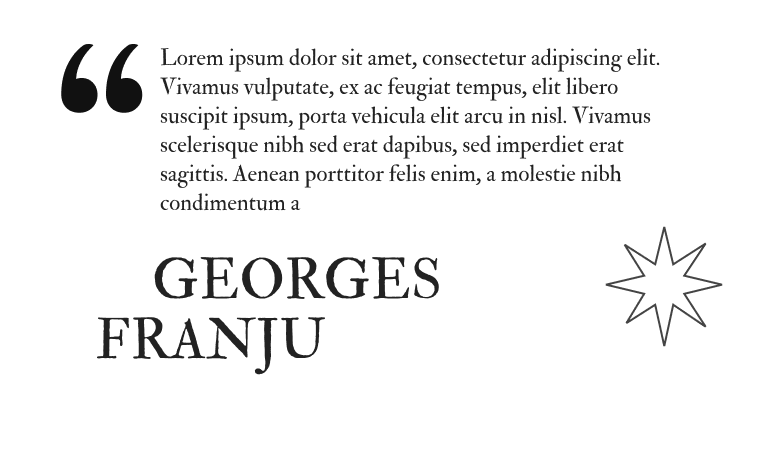
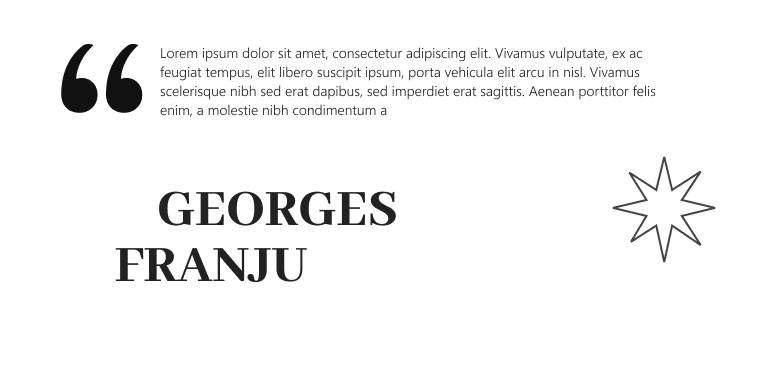
feat: auteur's showcase imagens

Changed region(s): [[0.0602, 0.0887, 0.873, 0.4731], [0.1204, 0.5027, 0.572, 0.828], [0.7827, 0.414, 0.9634, 0.7688]]

diff --git a/index.html b/index.html
@@ -19,9 +19,17 @@
         }
 
         section {
-            height: 100vh;
+            height: 110vh;
             background-color: #fff;
             padding-top: 70px;
+        }
+
+        section .produtos {
+            margin-top: 7em;
+        }
+
+        section .cadastro {
+            margin-top: 10em !important;
         }
 
         header {
@@ -33,7 +41,7 @@
         }
 
         .main-panel {
-            margin-top: 300px;
+            margin-top: 150px;
             display: flex;
             flex-direction: column;
             align-items: center;
@@ -73,7 +81,7 @@
         }
 
         .read-more h3 {
-            font-size: 50px;
+            font-size: 35px;
             text-transform: uppercase;
             font-weight: 400;
         }
@@ -99,8 +107,8 @@
         }
 
         .circle {
-            width: 50px;
-            height: 50px;
+            width: 40px;
+            height: 40px;
             border-radius: 100%;
             border: 2px solid #444;
             background-color: transparent;
@@ -115,14 +123,16 @@
         .circle a {
             text-decoration: none;
             color: #222;
+            font-size: 12px;
         }
 
         .auteur-quote img {
-            height: 25em;
+            height: 20em;
         }
 
-        .auteur-photos {
-            height: 100px;
+        .auteur-photos img {
+            height: 25em;
+            padding: 0 50px 50px;
         }
 
     </style>
@@ -153,6 +163,9 @@
                         <li class="nav-item">
                             <a class="nav-link" href="#contato">Contato</a>
                         </li>
+                        <li class="nav-item">
+                            <a class="nav-link" href="#cadastro">Sign up</a>
+                        </li>
                     </ul>
                 </nav>
             </div>
@@ -165,7 +178,7 @@
             <div class="container">
                 <div class="row">
                     <div class="col main-panel">
-                        <h2 class="m-2 display-4">
+                        <h2 class="m-2 display-5">
                             Track films you’ve watched.
                             Save those you want to see.
                             Tell your friends what’s good. 
@@ -196,10 +209,10 @@
                             <!-- <header class="card-header">
                                 Drama
                             </header> -->
-                            <img src="https://via.placeholder.com/180x180" alt="">
+                            <img src="https://via.placeholder.com/100x100" alt="">
                             <div class="card-body">
                                 <h4 class="card-title h5">
-                                    Abbias Kiarostami's Wisdom
+                                    Abbias Kiarostami's Dispute
                                 </h4>
                                 <p class="card-text">
                                     When the heart tells you to go, say it back "go fuck yourself".
@@ -216,13 +229,13 @@
                             <!-- <header class="card-header">
                                 Drama
                             </header> -->
-                            <img src="https://via.placeholder.com/180x180" alt="">
+                            <img src="https://via.placeholder.com/100x100" alt="">
                             <div class="card-body">
                                 <h4 class="card-title h5">
                                     Flesh Carnival
                                 </h4>
                                 <p class="card-text">
-                                    Do people tipically enjoy violence? How gore made its way into eleveted horror.
+                                    Do people tipically enjoy violence? How gore made its way into elevated horror.
                                 </p>
                                 <a href="#" class="btn btn-dark">ler mais</a>
                             </div>
@@ -236,13 +249,13 @@
                             <!-- <header class="card-header">
                                 Drama
                             </header> -->
-                            <img src="https://via.placeholder.com/180x180" alt="">
+                            <img src="https://via.placeholder.com/100x100" alt="">
                             <div class="card-body">
                                 <h4 class="card-title h5">
                                     How to Deal with Exploding Head Syndrome
                                 </h4>
                                 <p class="card-text">
-                                    Apichatpong talks about his love life and emotional indisposition 
+                                    Lucrecia Martel talks about her love life and emotional indisposition 
                                 </p>
                                 <a href="#" class="btn btn-dark">ler mais</a>
                             </div>
@@ -259,7 +272,7 @@
         <section id="produtos">
             <div class="container">
                 <div class="row">
-                    <div class="col-lg-12 col-sm-12 mb-3">
+                    <div class="col-lg-12 col-sm-12 mb-3 produtos">
                         <h2>
                             Just Reviewed
                         </h2>
@@ -315,8 +328,7 @@
                         </h3>
                         <p>
                             Lorem ipsum, dolor sit amet consectetur adipisicing elit. Totam animi quos officiis accusantium, aliquid exercitationem in pariatur eaque fugit adipisci repellat dicta quasi architecto illum? Nisi doloribus quis voluptatibus exercitationem?
-                            Lorem ipsum dolor, sit amet consectetur adipisicing elit. Itaque aut ea sed odio minus consequatur placeat aliquid, quidem hic qui ex veritatis, error dicta consequuntur. Cum, ea! Deserunt, odit obcaecati.
-                            Lorem ipsum, dolor sit amet consectetur adipisicing elit. Ad deserunt nemo distinctio dolores possimus quaerat voluptas libero?
+                            Lorem ipsum dolor, sit amet consectetur adipisicing elit. Itaque aut ea sed odio.
                         </p>
                     </div>
                     <img class="banner-read-more" src="./img/banner.jpg" alt="">
@@ -331,16 +343,17 @@
                         <img src="./img/quote.png" alt="">
                     </div>
                     <div class="col-lg-6 auteur-photos">
-                        <img src="./img/photograph-1.png" alt="">
-                        <img src="./img/photograph-2.png" alt="">
+                        <img src="./img/photograph.png" alt="">
                     </div>
                 </div>
             </div>
         </section>
-        <section>
+
+        <!-- section sign up -->
+        <section id="cadastro">
             <div class="container">
                 <div class="row">
-                    <div class="col-lg-12 mt-5" style="text-align: center;">
+                    <div class="col-lg-12 cadastro" style="text-align: center;">
                         <h3 class="display-4">
                             Write and share reviews. Compile your own lists. Share your life in film.
                         </h3>
